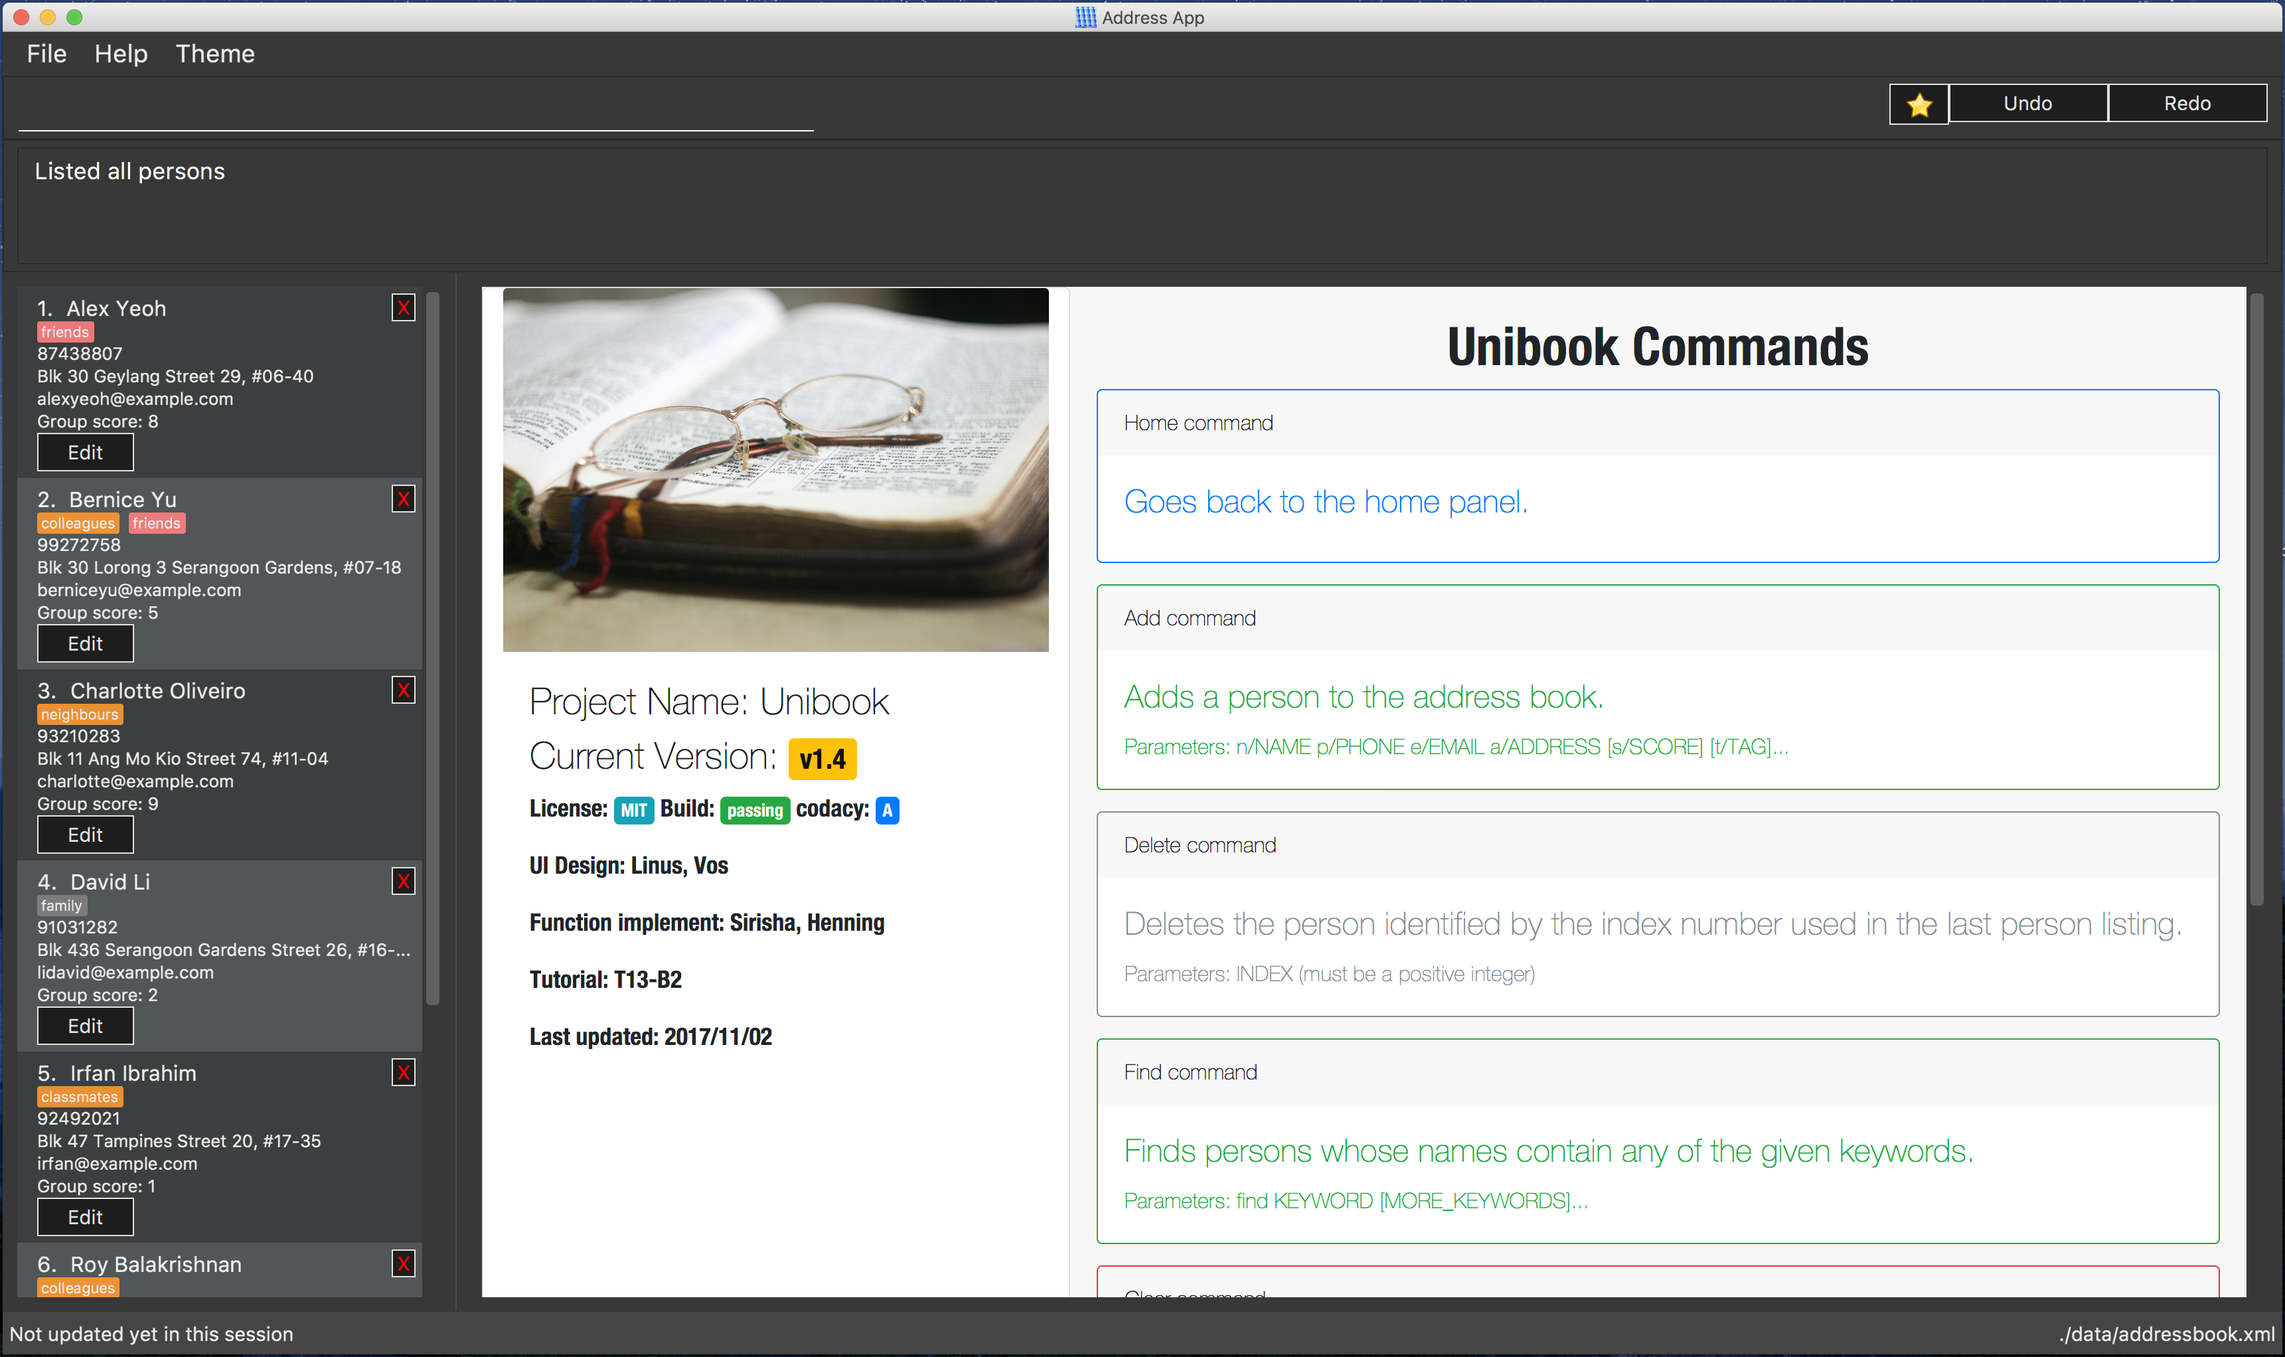
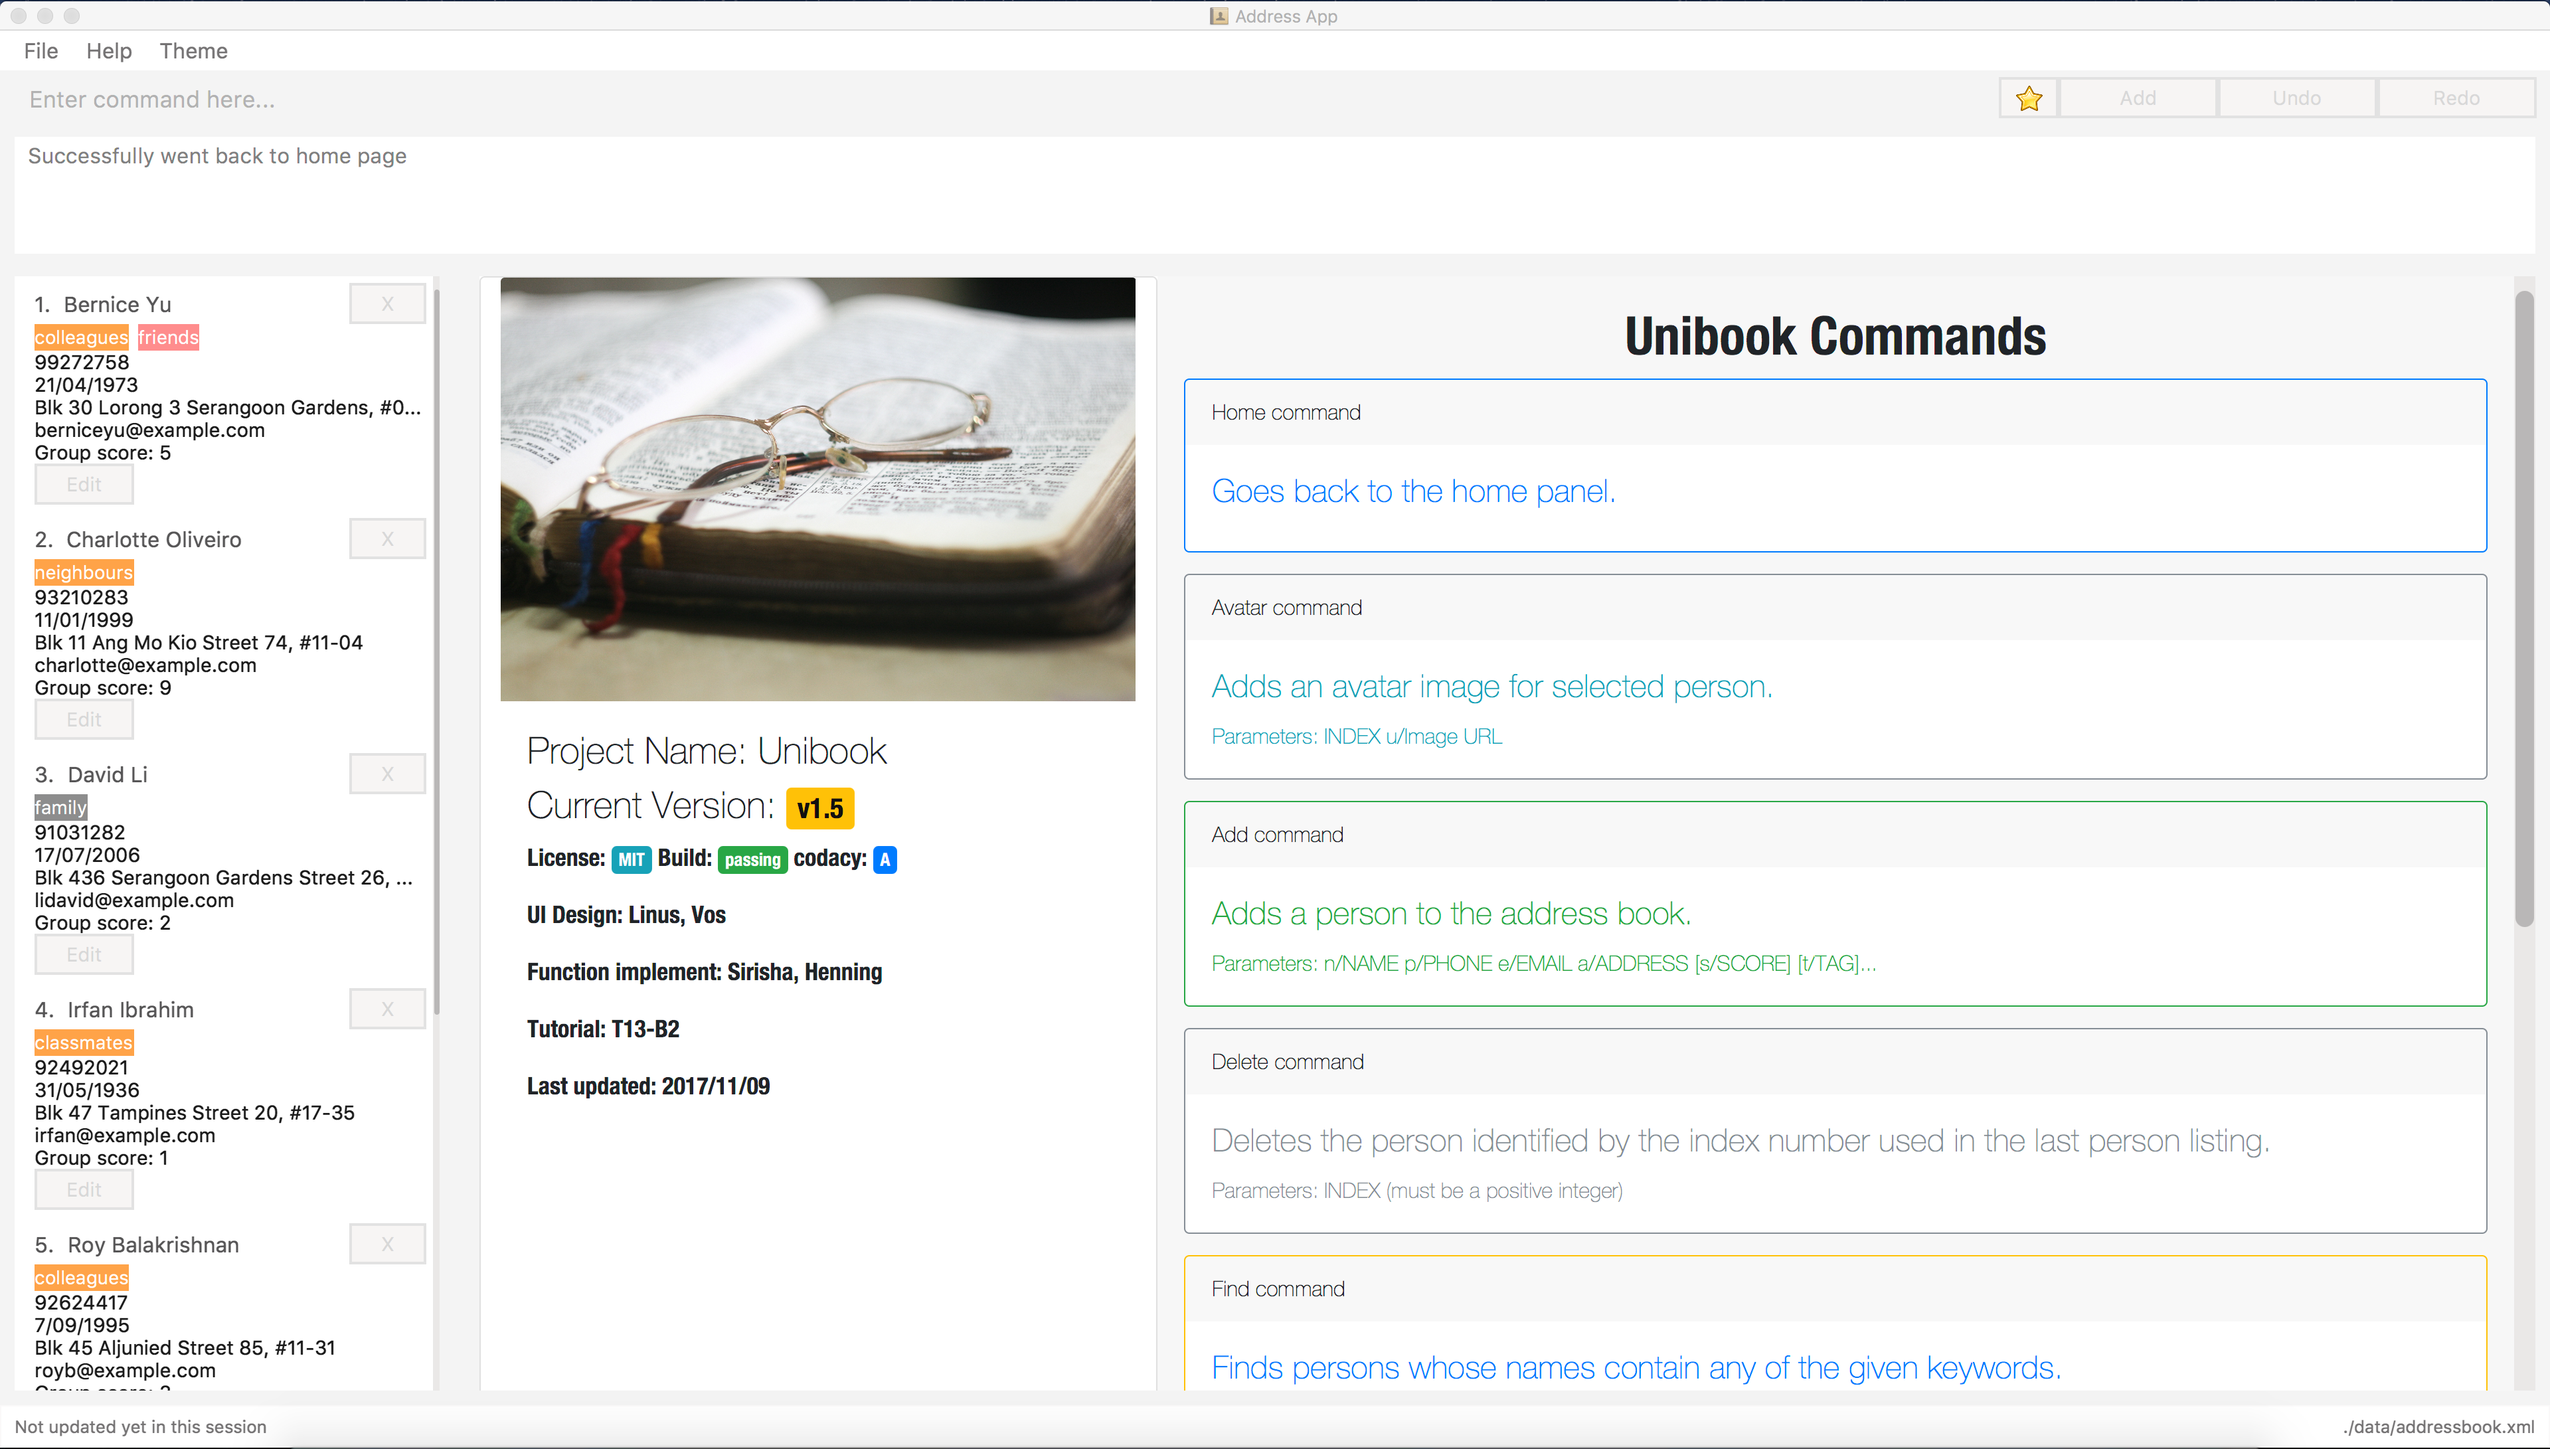
Updated user guide and dev guide

diff --git a/src/main/resources/view/default.html b/src/main/resources/view/default.html
@@ -57,12 +57,12 @@
 
             <strong>
                 <h3>Project Name: Unibook</h3>
-                <h3>Current Version: <span class='badge badge-warning'>v1.4</span></h3>
+                <h3>Current Version: <span class='badge badge-warning'>v1.5</span></h3>
                 <p>License: <span class='badge badge-info'>MIT</span> Build: <span class='badge badge-success'>passing</span> codacy: <span class='badge badge-primary'>A</span></p>
                 <p>UI Design: Linus, Vos</p>
                 <p>Function implement: Sirisha, Henning</p>
                 <p>Tutorial: T13-B2</p>
-                <p>Last updated: 2017/11/02</p>
+                <p>Last updated: 2017/11/09</p>
             </strong>
 
         </div>
@@ -77,7 +77,13 @@
                 <h4 class="card-title">Goes back to the home panel. </h4>
             </div>
         </div>
-
+        <div class="card border-secondary mb-3">
+            <div class="card-header">Avatar command</div>
+            <div class="card-body text-info">
+                <h4 class="card-title">Adds an avatar image for selected person. </h4>
+                <p class="card-text">Parameters: INDEX u/Image URL</p>
+            </div>
+        </div>
         <div class="card border-success mb-3">
             <div class="card-header">Add command</div>
             <div class="card-body text-success">
@@ -92,10 +98,9 @@
                 <p class="card-text">Parameters: INDEX (must be a positive integer)</p>
             </div>
         </div>
-
-        <div class="card border-success mb-3">
+        <div class="card border-warning mb-3">
             <div class="card-header">Find command</div>
-            <div class="card-body text-success">
+            <div class="card-body text-primary">
                 <h4 class="card-title">Finds persons whose names contain any of the given keywords.</h4>
                 <p class="card-text">Parameters: find KEYWORD [MORE_KEYWORDS]...</p>
             </div>

diff --git a/src/main/java/seedu/address/logic/commands/AddAvatarCommand.java b/src/main/java/seedu/address/logic/commands/AddAvatarCommand.java
@@ -41,7 +41,7 @@ public class AddAvatarCommand extends Command {
             + "[u/image URL]\n"
             + "Example of using online image: " + COMMAND_WORD + " 1 "
             + PREFIX_IMAGE_URL
-            + "https://www.gravatar.com/avatar/null\n"
+            + "https://i.pinimg.com/564x/c1/23/83/c1238302de2a7cc3c905830681814e79.jpg\n"
             + "Example of using local image: " + COMMAND_WORD + " 1 "
             + PREFIX_IMAGE_URL + "https://www.gravatar.com/avatar/null\n";
 
@@ -164,8 +164,8 @@ public class AddAvatarCommand extends Command {
             model.updateFilteredPersonList(PREDICATE_SHOW_ALL_PERSONS);
         }
 
-        String resultMessage = String.format(MESSAGE_UPDATE_AVATAR_PIC_SUCCESS, personToUpdateAvatarPic);
-        System.out.println(model.getFilteredPersonList().get(index.getZeroBased()).getAvatarPic().source);
+        String resultMessage = String.format(MESSAGE_UPDATE_AVATAR_PIC_SUCCESS, personToUpdateAvatarPic.getName());
+
         if (isOldFileDeleted) {
             return new CommandResult(resultMessage);
         } else {
